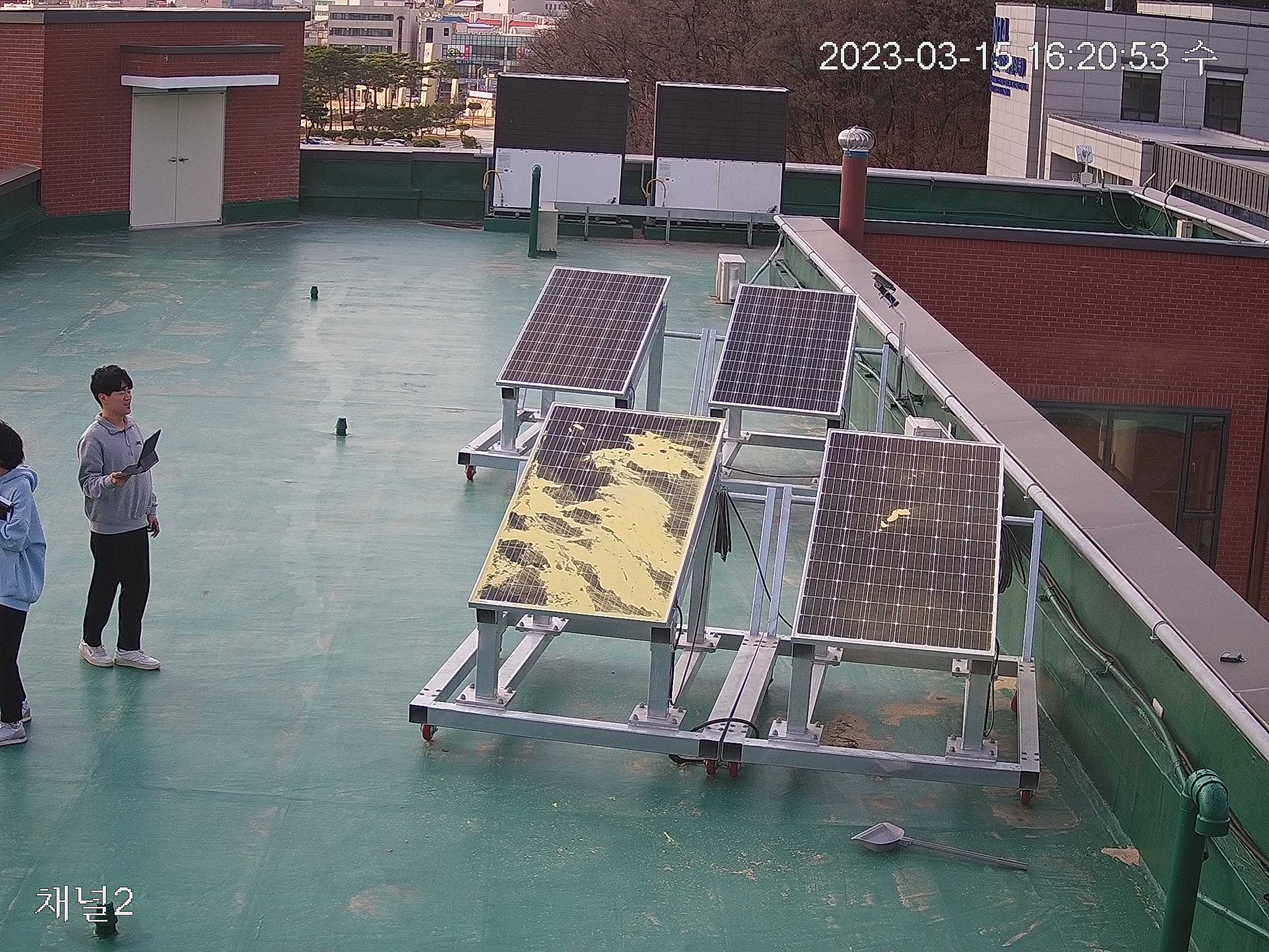
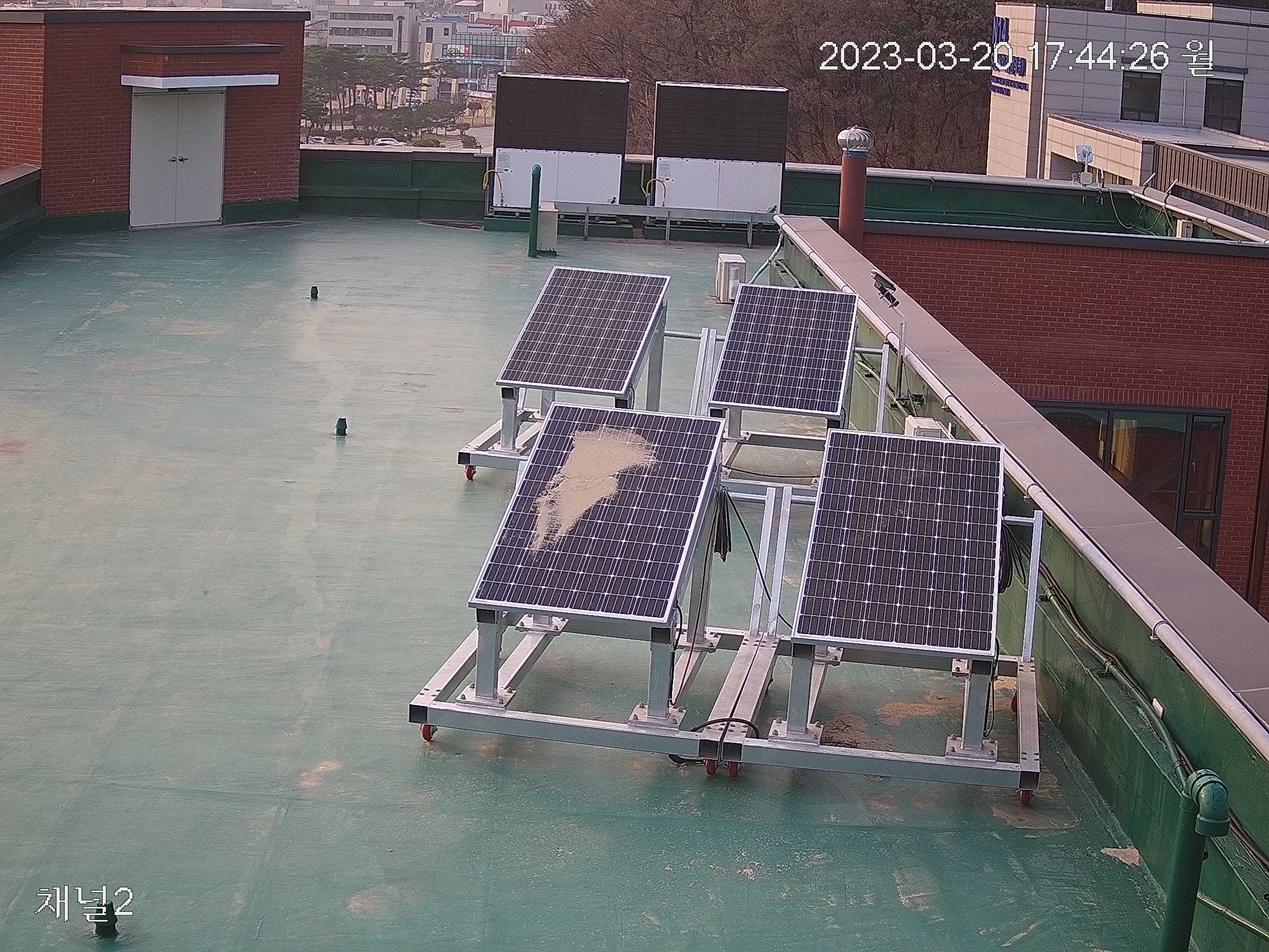
Feat : 홈-cctv 이미지 오염 상태 연결
home.view 파일에 cctv 상태 임시 저장한 후, 값 불러와서 페이지에 구현
오염 상태, 오염 면적으로 cctv별 정보 나타냄

related to : # 144
close : #144

diff --git a/home/templates/home/components/home_cctv.html b/home/templates/home/components/home_cctv.html
@@ -16,118 +16,34 @@
     <div class = "card-body" style="padding-top : 2rem">
         <div id="carouselExampleIndicators" class="carousel slide" data-ride="carousel" data-interval = "false">
             <ol class="carousel-indicators">
-                <li data-target="#carouselExampleIndicators" data-slide-to="0" class="active"></li>
-                <li data-target="#carouselExampleIndicators" data-slide-to="1" class=""></li>
-                <li data-target="#carouselExampleIndicators" data-slide-to="2" class=""></li>
-                <li data-target="#carouselExampleIndicators" data-slide-to="3" class=""></li>
-                <li data-target="#carouselExampleIndicators" data-slide-to="4" class=""></li>
+                {% for c in cctv %}
+                <li data-target="#carouselExampleIndicators" data-slide-to="{{c.cctv_num}}" class="{{c.active}}"></li>
+                {% endfor %}
             </ol>
             <div class="carousel-inner">
-                <div class="carousel-item active">
-                    <img class="d-block w-100" src="/static/cctv_images/image_1.jpg" alt="First slide" height="400">
+                {% for c in cctv %}
+                <div class="carousel-item {{c.active}}">
+                    <img class="d-block w-100" src="{{c.im_src}}" alt="{{c.im_src}}" height="400">
                     <div class = "carousel-caption">
                         <div class = "table-responsive p-0">
                             <table class = "table table-hover text-nowrap">
                                 <thead>
                                     <tr>
                                         <th> 오염 종류</th>
-                                        <th> 발전량 감소</th>
+                                        <th> 오염 면적</th>
                                     </tr>
                                 </thead>
                                 <tbody>
                                     <tr>
-                                        <td>흙먼지</td>
-                                        <td> 1 kW</td>
+                                        <td>{{c.soiling_type}}</td>
+                                        <td>{{c.soiling_area}}</td>
                                     </tr>
                                 </tbody>
                             </table>
                         </div>
                     </div>
                 </div>
-                <div class="carousel-item">
-                    <img class="d-block w-100" src="/static/cctv_images/image_2.jpg" alt="Second slide" height="400">
-                    <div class = "carousel-caption">
-                        <div class = "table-responsive p-0">
-                            <table class = "table table-hover text-nowrap">
-                                <thead>
-                                    <tr>
-                                        <th> 오염 종류</th>
-                                        <th> 발전량 감소</th>
-                                    </tr>
-                                </thead>
-                                <tbody>
-                                    <tr>
-                                        <td>흙먼지</td>
-                                        <td> 2 kW</td>
-                                    </tr>
-                                </tbody>
-                            </table>
-                        </div>
-                    </div>
-                </div>
-                <div class="carousel-item">
-                    <img class="d-block w-100" src="/static/cctv_images/image_3.jpg" alt="Third slide" height="400">
-                    <div class = "carousel-caption">
-                        <div class = "table-responsive p-0">
-                            <table class = "table table-hover text-nowrap">
-                                <thead>
-                                    <tr>
-                                        <th> 오염 종류</th>
-                                        <th> 발전량 감소</th>
-                                    </tr>
-                                </thead>
-                                <tbody>
-                                    <tr>
-                                        <td>흙먼지</td>
-                                        <td> 3 kW</td>
-                                    </tr>
-                                </tbody>
-                            </table>
-                        </div>
-                    </div>
-                </div>
-                <div class="carousel-item">
-                    <img class="d-block w-100" src="/static/cctv_images/image_4.jpg" alt="Third slide" height="400">
-                    <div class = "carousel-caption">
-                        <div class = "table-responsive p-0">
-                            <table class = "table table-hover text-nowrap">
-                                <thead>
-                                    <tr>
-                                        <th> 오염 종류</th>
-                                        <th> 발전량 감소</th>
-                                    </tr>
-                                </thead>
-                                <tbody>
-                                    <tr>
-                                        <td>흙먼지</td>
-                                        <td> 4 kW</td>
-                                    </tr>
-                                </tbody>
-                            </table>
-                        </div>
-                    </div>
-                </div>
-                <div class="carousel-item">
-                    <img class="d-block w-100" src="/static/cctv_images/image_5.jpg" alt="Third slide" height = "400">
-                    <div class = "carousel-caption">
-                        <div class = "table-responsive p-0">
-                            <table class = "table table-hover text-nowrap">
-                                <thead>
-                                    <tr>
-                                        <th> 오염 종류</th>
-                                        <th> 발전량 감소</th>
-                                    </tr>
-                                </thead>
-                                <tbody>
-                                    <tr>
-                                        <td>흙먼지</td>
-                                        <td> 5 kW</td>
-                                    </tr>
-                                </tbody>
-                            </table>
-                        </div>
-                    </div>
-                </div>
+                {% endfor %}
             </div>
 
             <a class="carousel-control-prev" href="#carouselExampleIndicators" role="button" data-slide="prev">

diff --git a/home/templates/home/index.html b/home/templates/home/index.html
@@ -7,14 +7,14 @@
     {% include 'home/components/status_box.html' %}
 </div>
 <div class = "row">
-    <section class = "col-lg-4 connectedSortable ui-sortable">
+    <section class = "col-lg-5 connectedSortable ui-sortable">
         {% include 'home/components/generation_graph.html' %}
         {% include 'home/components/weather_module.html' %}
     </section>
     <section class = "col-lg-4 connectedSortable ui-sortable">
         {% include 'home/components/home_cctv.html' %}
     </section>
-    <section class = "col-lg-4 connectedSortable ui-sortable">
+    <section class = "col-lg-3 connectedSortable ui-sortable">
         {% include 'home/components/home_alarm.html'%}
     </section>
 </div>

diff --git a/home/templates/home/components/home_alarm.html b/home/templates/home/components/home_alarm.html
@@ -26,7 +26,7 @@
                             </span>
                             <span class="time float-right">
                                 <i class = "far fa-clock mr-1 small"></i>
-                                {{timeline.time}}
+                                {{timeline.time|date:'m/d H:i'}}
                             </span>
                         </p>
             

diff --git a/home/views.py b/home/views.py
@@ -20,6 +20,13 @@ status_value= [
     { "title": "발전 효율", "value": "", "unit": "%", "icon_class": "fas fa-hand-holding-usd" },
 ]
 
+cctv_value = [
+    { "cctv_num" : 0, "im_src" : "/static/cctv_images/PanelImageSample.jpg","soiling_type" : "모래", "soiling_area" : "25%" , "active" : "active"},
+    { "cctv_num" : 1, "im_src" : "/static/cctv_images/PanelImageSample_1.jpg","soiling_type" : "새똥", "soiling_area" : "17%", "active" : ""},
+    { "cctv_num" : 2, "im_src" : "/static/cctv_images/PanelImageSample_2.jpg","soiling_type" : "꽃가루", "soiling_area" : "75%", "active" : ""},
+    { "cctv_num" : 3, "im_src" : "/static/cctv_images/PanelImageSample_3.jpg","soiling_type" : "꽃가루", "soiling_area" : "5%", "active" : ""}
+]
+
 class home(LoginRequiredMixin, TemplateView):
     login_url = settings.LOGIN_URL
 
@@ -28,7 +35,7 @@ class home(LoginRequiredMixin, TemplateView):
         user = User.objects.get(username = username)
         timelines = AlarmModel.objects.filter(user_id = user.id).order_by('-time')
         status_value = self.get_status()
-        return render(request, 'home/index.html',{'status_box' : status_value ,'timelines' : timelines})
+        return render(request, 'home/index.html',{'status_box' : status_value ,'timelines' : timelines , 'cctv' : cctv_value})
     
     def get_status(self):
 
